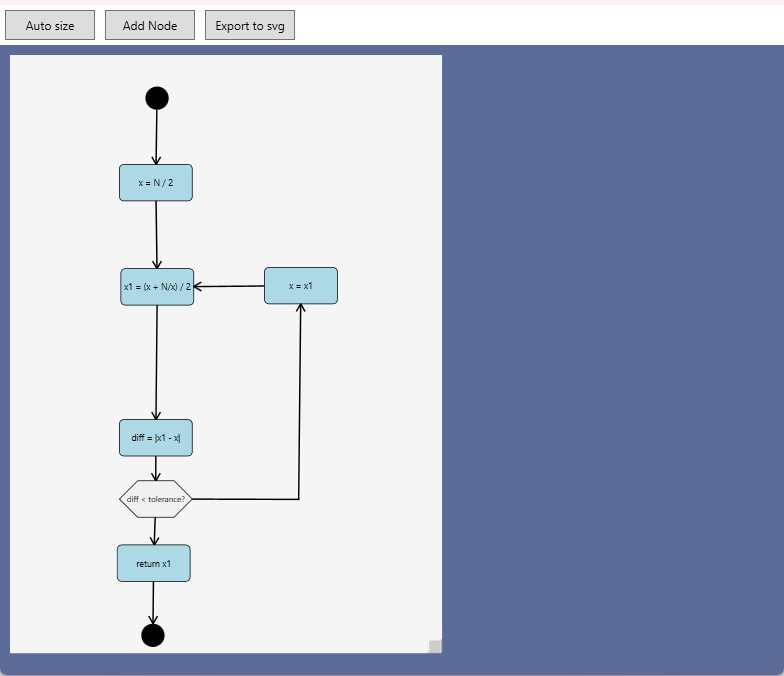
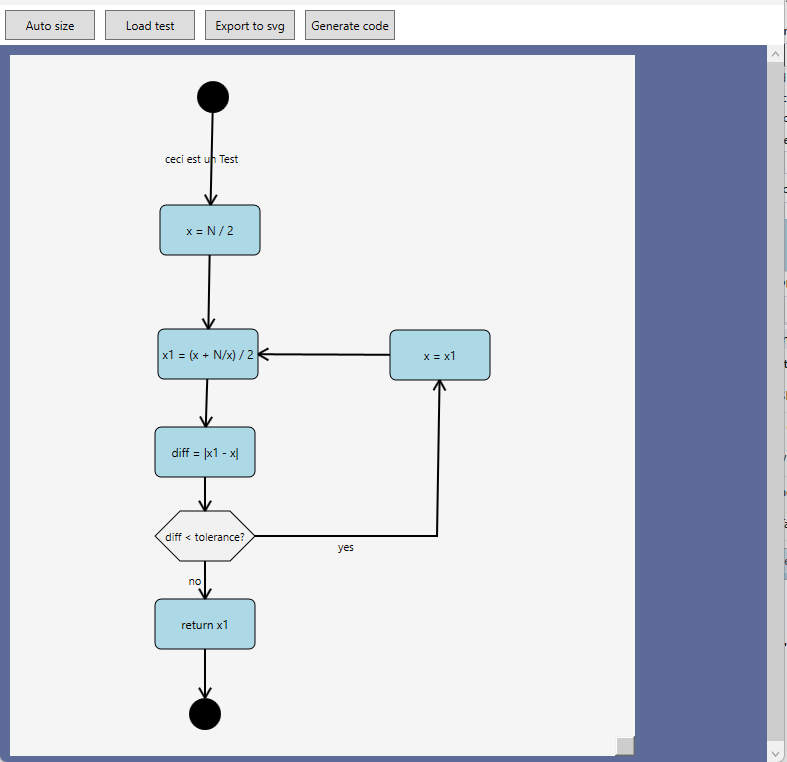
chantier et documentations

diff --git a/_posts/2026-03-15-documenterlogiciel copy.md b/_posts/2026-03-15-documenterlogiciel copy.md
@@ -1,0 +1,14 @@
+---
+title: De l'art de documenter les logiciels au long cours
+layout: math
+nav_order: 1
+link_page: Architecture logicielle/Documenter_logiciel/introduction
+---
+
+Ou *Pour la maintenance ou contraintes réglementaires et contre la perte de mémoire dans les projets de plus de 10 ans ...*
+
+Lorsqu’on travaille sur un logiciel métier avec un cycle de vie long — parfois 10, 15, 20 , 30, 40  ans — la documentation n’est plus un simple livrable de projet. Elle devient un élément central du système, au même titre que le code lui-même.
+
+Dans certains contextes, comme les dispositifs médicaux soumis à des contraintes réglementaires (ISO, classes B ou C), documenter n’est même pas une option : c’est une **obligation**. Mais au-delà de l’audit ou de la conformité, la documentation joue un rôle bien plus fondamental : elle conditionne la capacité à maintenir, faire évoluer et transmettre le logiciel dans le temps.
+
+

diff --git a/_posts/2026-04-2-ChantiersNavals.md b/_posts/2026-04-2-ChantiersNavals.md
@@ -1,0 +1,14 @@
+---
+title: De l'art de documenter les logiciels au long cours
+layout: math
+nav_order: 1
+link_page: Architecture logicielle/Documenter_logiciel/introduction
+---
+
+Ou *Pour la maintenance ou contraintes réglementaires et contre la perte de mémoire dans les projets de plus de 10 ans ...*
+
+Lorsqu’on travaille sur un logiciel métier avec un cycle de vie long — parfois 10, 15, 20 , 30, 40  ans — la documentation n’est plus un simple livrable de projet. Elle devient un élément central du système, au même titre que le code lui-même.
+
+Dans certains contextes, comme les dispositifs médicaux soumis à des contraintes réglementaires (ISO, classes B ou C), documenter n’est même pas une option : c’est une **obligation**. Mais au-delà de l’audit ou de la conformité, la documentation joue un rôle bien plus fondamental : elle conditionne la capacité à maintenir, faire évoluer et transmettre le logiciel dans le temps.
+
+

diff --git a/Chantiers navals/PatGraph framework.md b/Chantiers navals/PatGraph framework.md
@@ -55,6 +55,8 @@ Voici quelques-uns de mes requirements :
 
 
 
-## Showroom
+## Showroom  (Phase 1 en cours)
 
-<img src="activity diagram.png" width="500" ALIGN=center/>
+<img src="activity diagram.png"  ALIGN=center/>
+
+<img src="Neuronal network.png"  ALIGN=center/>

diff --git a/Chantiers navals/Patbot.md b/Chantiers navals/Patbot.md
@@ -7,3 +7,4 @@ parent: Chantiers navals
 
 #PatBot
 
+<img src="patbot.png" ALIGN=center/>
